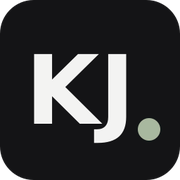
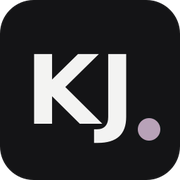
Use muted mauve accents and remove remaining project section bars

Changed region(s): [[0.75, 0.6389, 0.8889, 0.7778]]

diff --git a/site/assets/style.css b/site/assets/style.css
@@ -1,6 +1,6 @@
 @import url('https://fonts.googleapis.com/css2?family=Barlow+Condensed:wght@500;600;700;800&family=DM+Sans:wght@400;450;500;550;600;650;700&display=swap');
-:root{--bg:#141416;--panel:#1d1d20;--text:#f3f3f2;--muted:#b3b3b8;--line:#3b3b40;--accent:#a8b89f;--paper:#ededee;--ink:#18181b;--display:'Barlow Condensed','Arial Narrow',Impact,sans-serif;--body:'DM Sans',Arial,sans-serif;color-scheme:dark;font-family:var(--body);font-synthesis:none;scroll-behavior:smooth;scroll-padding-top:110px}
-*{box-sizing:border-box}body{margin:0;background:var(--bg);color:var(--text);font-size:16px;line-height:1.65}a{color:inherit;text-decoration:none}button{font:inherit;color:inherit;cursor:pointer}button,a{-webkit-tap-highlight-color:transparent}button:focus-visible,a:focus-visible{outline:3px solid var(--accent);outline-offset:6px}::selection{background:var(--accent);color:var(--ink)}img{display:block;max-width:100%;object-fit:cover}h1,h2,h3,p,figure{margin:0}h1,h2,h3{font-weight:600;line-height:1.08}h1,h2{font-family:var(--display)}h2{font-size:clamp(2.7rem,4.4vw,4.5rem);letter-spacing:-.015em}p{color:var(--muted)}ul{padding:0;list-style:none}small{font-size:.8rem}.wrap{width:min(1280px,calc(100% - 104px));margin-inline:auto}.section{padding-block:105px}.eyebrow{font-size:.8125rem;letter-spacing:.13em;font-weight:600;color:var(--muted);text-transform:uppercase}.eyebrow .accent-line{display:inline-block;width:24px;height:2px;background:var(--accent);vertical-align:middle;margin-right:8px}.skip{position:fixed;top:-100px;left:16px;z-index:100;background:var(--accent);color:var(--ink);padding:10px 20px}.skip:focus{top:10px}.header{position:sticky;top:0;z-index:30;background:rgba(20,20,22,.96);border-bottom:1px solid var(--line);backdrop-filter:blur(16px)}.header-inner{display:flex;align-items:center;justify-content:space-between;min-height:91px;gap:24px}.identity{display:flex;align-items:center;gap:16px;font-size:.8125rem;font-weight:700;letter-spacing:.07em;line-height:1.5}.identity small{display:block;font-size:.75rem;letter-spacing:.13em;font-weight:450;color:var(--muted)}.monogram{font-family:var(--display);font-size:2.75rem;font-weight:700;letter-spacing:-.07em}.monogram span,.footer-name span{color:var(--accent)}nav{display:flex;align-items:center;gap:35px}nav a{font-size:.9rem;color:var(--muted)}nav a:hover,nav a[aria-current]{color:var(--text)}nav .resume-link{border:1px solid var(--line);padding:9px 17px;color:var(--text)}.menu-toggle{display:none}.hero{display:grid;grid-template-columns:1.2fr .8fr;gap:50px 64px;padding-top:65px}.hero-copy{padding-top:14px}.hero h1{font-size:clamp(4.3rem,7.9vw,7.75rem);line-height:.98;letter-spacing:-.025em;margin:28px 0 27px;font-weight:600}.hero h1 span{color:var(--accent)}.hero-description{max-width:495px;font-size:1.03rem;line-height:1.8}.hero-buttons{display:flex;align-items:center;gap:28px;margin-top:30px;flex-wrap:wrap}.button{display:inline-flex;justify-content:center;align-items:center;gap:36px;padding:15px 23px;font-size:.9375rem;font-weight:600;border:1px solid transparent;min-height:54px;transition:background .2s,transform .2s}.button:hover{transform:translateY(-2px)}.primary{background:var(--accent);color:var(--ink)}.primary:hover{background:#bdccb5}.outline{border-color:var(--line)}.outline:hover{background:var(--panel)}.text-link{font-size:.9375rem;border-bottom:1px solid var(--line);padding-bottom:7px}.text-link span{margin-left:15px}.hero-portrait{padding-top:8px;min-width:0}.portrait-frame{position:relative;overflow:hidden;background:#36363b;aspect-ratio: .87;max-height:525px;border-top:3px solid var(--accent)}.portrait-frame img{width:100%;height:100%;object-position:50% 52%;filter:saturate(.68)}.portrait-frame:after{content:'';position:absolute;inset:50% 0 0;background:linear-gradient(transparent,rgba(0,0,0,.75));pointer-events:none}.portrait-caption{position:absolute;bottom:24px;left:25px;right:20px;z-index:2;display:flex;flex-direction:column;gap:4px}.portrait-caption span:first-child{font-size:1.25rem;font-weight:650}.portrait-caption span:last-child{font-size:.75rem;letter-spacing:.13em}.portrait-note{display:flex;gap:15px;align-items:center;margin-top:17px;font-size:.75rem;line-height:1.7;letter-spacing:.07em}.cross{font-size:2rem;color:var(--accent);line-height:1}.muted{color:var(--muted)}.hero-bottom{grid-column:1/-1;display:flex;justify-content:space-between;gap:20px;border-top:1px solid var(--line);border-bottom:1px solid var(--line);padding:23px 0;font-size:.8125rem;color:var(--muted)}.hero-bottom>span:first-child{color:var(--text)}.hero-bottom i{font-style:normal;color:var(--accent);padding-inline:12px}.section-heading{display:flex;align-items:end;justify-content:space-between;gap:40px;margin-bottom:44px}.section-heading h2{margin-top:15px}.count{font-family:var(--body);font-size:.9375rem;letter-spacing:0;color:var(--muted);vertical-align:top;display:inline-block;margin:9px 0 0 16px}.section-heading>p{max-width:320px;font-size:.9375rem}.project-list{display:grid;gap:48px}.project-card{display:grid;grid-template-columns:1.18fr 1fr;border:1px solid var(--line);background:var(--panel)}.project-visual{position:relative;min-width:0;overflow:hidden;background:#47734e;min-height:460px;display:block}.project-visual img{width:100%;height:100%;position:absolute;inset:0;transition:transform .65s}.operation-station .project-visual img{object-fit:contain;padding:28px;image-rendering:auto}.project-visual:hover img{transform:scale(1.035)}.clockwork-trials .project-visual img{object-position:58% center}.release-badge{position:absolute;left:22px;top:22px;display:flex;align-items:center;gap:9px;background:var(--bg);padding:7px 12px;font-size:.75rem;letter-spacing:.08em;border:1px solid #ffffff22}.release-badge>span{width:5px;height:5px;background:#b5d895;border-radius:50%}.image-open{position:absolute;right:22px;bottom:22px;width:43px;height:43px;background:var(--text);color:var(--ink);display:grid;place-items:center;font-size:1.5rem}.project-copy{padding:32px 37px;display:flex;flex-direction:column}.project-index{display:flex;justify-content:space-between;gap:10px;font-size:.75rem;color:var(--muted);letter-spacing:.06em}.project-copy h3{font-family:var(--display);font-size:3.8rem;font-weight:600;margin-top:22px;line-height:.98}.project-summary{margin-top:18px;font-size:.9375rem;max-width:345px}.project-role{border-top:1px solid var(--line);margin-top:25px;padding-top:17px}.project-role>span{font-size:.75rem;letter-spacing:.1em;color:var(--muted)}.project-role p{font-size:.875rem;color:var(--text);margin-top:3px}.tags{display:flex;flex-wrap:wrap;gap:7px;margin:20px 0}.tags li{border:1px solid var(--line);padding:4px 9px;font-size:.75rem;color:var(--muted);line-height:1.5}.case-link{display:flex;justify-content:space-between;align-items:center;margin-top:auto;padding-top:15px;font-size:.875rem}.case-link span{font-size:1.5rem;color:var(--accent)}.about{background:var(--paper);color:var(--ink);color-scheme:light}.about p,.about .eyebrow{color:#57575f}.about-grid{display:grid;grid-template-columns:1fr 1fr;gap:90px}.about h2{margin-top:20px;font-size:clamp(2.75rem,4.4vw,4.4rem)}.about-copy p+p{margin-top:18px}.about-copy .text-link{display:inline-block;margin-top:27px;border-color:#bdbdc3}.about-signature{font-family:var(--display);font-weight:600;font-size:1.8rem;margin-top:42px}.about-signature span{display:block;font-family:var(--body);font-size:.75rem;font-weight:500;letter-spacing:.09em;margin-top:3px;color:#57575f}.skills-grid{display:grid;grid-template-columns:repeat(3,1fr);gap:40px;margin-top:80px;border-top:1px solid #c4c4c9;padding-top:35px}.skill-number{font-size:.8125rem;color:#6b6b74}.skill h3{font-size:1.125rem;margin:17px 0 14px}.skill p{font-size:.9375rem}.skill .tags li{color:#484850;border-color:#c4c4c9}.education{display:grid;grid-template-columns:.55fr 1fr 1fr;gap:35px;margin-top:55px;padding-top:30px;border-top:1px solid #c4c4c9}.education-row h3{font-size:1rem;line-height:1.5}.education-row span{display:block;font-size:.8125rem;font-weight:400;color:#57575f}.education-row p{margin-top:13px;font-size:.875rem}.contact{border-bottom:1px solid var(--line)}.contact-grid{display:grid;grid-template-columns:1fr 1fr;gap:75px;align-items:end}.contact h2{margin:20px 0;font-size:clamp(3rem,4.7vw,4.8rem)}.contact-grid>div>p:not(.eyebrow){max-width:430px;font-size:.9375rem}.contact-actions{padding-bottom:8px;min-width:0}.email-link{display:flex;justify-content:space-between;align-items:center;gap:14px;padding-bottom:17px;border-bottom:1px solid var(--line);font-size:clamp(.9375rem,1.45vw,1.25rem);overflow-wrap:anywhere}.email-link span{color:var(--accent);font-size:1.75rem}.contact-secondary{display:flex;flex-wrap:wrap;gap:15px 25px;margin-top:23px;font-size:.8125rem}.contact-secondary button{border:0;padding:0;background:none;font-size:inherit}.contact-secondary a:hover,.contact-secondary button:hover{color:var(--accent)}.copy-status{font-size:.8125rem;min-height:24px;margin:12px 0}.availability{font-size:.8125rem;color:var(--muted)}.footer-inner{padding-block:30px;display:flex;gap:20px;justify-content:space-between;align-items:center;font-size:.8125rem;color:var(--muted)}.footer-name{font-family:var(--display);font-size:1.75rem;color:var(--text);font-weight:600}.footer-inner small{font-size:.75rem}.project-intro{padding-top:35px}.back-link{font-size:.875rem;color:var(--muted)}.project-intro-meta{display:flex;justify-content:space-between;gap:20px;align-items:center;margin-top:50px}.status-label{color:#c1d7ac;border:1px solid var(--line);padding:4px 14px;font-size:.8125rem}.project-intro h1{font-size:clamp(4rem,9.2vw,8.5rem);margin-top:20px;letter-spacing:-.02em}.project-lede{font-size:1.25rem;max-width:780px;margin-top:22px}.project-ctas{display:flex;align-items:center;flex-wrap:wrap;gap:20px;margin:30px 0}.project-ctas .tags{margin:0}.snapshot{display:grid;grid-template-columns:1.5fr 1fr 1fr .65fr;border-block:1px solid var(--line);gap:25px;padding-block:26px;margin-top:43px}.snapshot span{font-size:.75rem;letter-spacing:.1em;color:var(--muted)}.snapshot p{font-size:.9375rem;color:var(--text);margin-top:7px}.project-banner{position:relative;margin:35px 0 0;aspect-ratio:2.2;overflow:hidden;background:#47734e}.project-banner img{width:100%;height:100%;object-fit:cover}.project-banner.operation-station img{object-fit:contain}.project-banner.clockwork-trials img{object-position:center 75%}.project-banner figcaption{position:absolute;left:0;bottom:0;background:#141416dd;font-size:.75rem;padding:8px 15px}.detail-layout{display:grid;grid-template-columns:210px 1fr;gap:70px;padding-top:75px}.detail-nav{position:sticky;top:135px;align-self:start;display:flex;flex-direction:column;align-items:start;gap:20px}.detail-nav .eyebrow{font-size:.75rem;margin-bottom:5px}.detail-nav a{font-size:.8125rem}.detail-nav a[aria-current]{color:var(--accent)}.detail-content{max-width:850px;min-width:0}.detail-content section{padding-bottom:64px;margin-bottom:64px;border-bottom:1px solid var(--line)}.detail-content h2{font-size:clamp(2.25rem,3.4vw,3.75rem);margin:17px 0 24px}.detail-content h3{font-size:1.2rem;line-height:1.35;margin:32px 0 17px}.detail-content p{line-height:1.85}.bullet-list{display:grid;gap:12px;color:var(--muted);padding-left:19px;list-style:square}.bullet-list li::marker{color:var(--accent)}.focus-note{border-left:3px solid var(--accent);padding:25px 28px;background:var(--panel);margin-top:34px}.focus-note>span{font-size:.75rem;letter-spacing:.12em;color:var(--accent)}.focus-note p{font-size:.9375rem;margin-top:10px;color:var(--text)}.contribution-list article{display:grid;grid-template-columns:40px 1fr;gap:25px;border-top:1px solid var(--line);padding:25px 0}.contribution-list article>span{font-size:.875rem;color:var(--accent)}.contribution-list h3{margin:0 0 11px}.contribution-list p{font-size:.9375rem}.feature-grid{display:grid;grid-template-columns:1fr 1fr;gap:0 35px;margin-top:25px}.feature-grid li{padding:14px 0;border-bottom:1px solid var(--line);font-size:.9375rem;color:var(--muted)}.fact-list{margin-top:30px}.fact-list>div{display:grid;grid-template-columns:145px 1fr;gap:25px;border-top:1px solid var(--line);padding:16px 0;font-size:.9375rem}.fact-list dt{color:var(--muted)}.fact-list dd{margin:0}.video-container{position:relative;width:100%;aspect-ratio:16/9;background:#000;overflow:hidden}.video-launch{position:relative;width:100%;height:100%;padding:0;border:1px solid var(--line);background:transparent}.video-launch img{width:100%;height:100%;object-fit:contain;filter:brightness(.65)}.video-play{position:absolute;inset:0;display:flex;align-items:center;justify-content:center;flex-direction:column;font-size:2.5rem;color:white}.video-play small{font-size:.75rem;letter-spacing:.14em}.video-container iframe{display:block;width:100%;height:100%;border:0}.video-fallback{font-size:.875rem;margin-top:15px}.next-project{padding:0 0 70px;border-bottom:1px solid var(--line)}.next-project>a{display:flex;justify-content:space-between;align-items:center;gap:25px;font-family:var(--display);font-size:clamp(2.75rem,5vw,5rem);margin-top:15px;line-height:1.15}.next-project>a span{color:var(--accent)}.missing{min-height:65vh;padding-block:80px}.missing h1{font-size:clamp(3.5rem,8vw,7rem);margin-block:25px}.missing .button{margin-top:25px}
+:root{--bg:#141416;--panel:#1d1d20;--text:#f3f3f2;--muted:#b3b3b8;--line:#3b3b40;--accent:#b8a2b8;--paper:#ededee;--ink:#18181b;--display:'Barlow Condensed','Arial Narrow',Impact,sans-serif;--body:'DM Sans',Arial,sans-serif;color-scheme:dark;font-family:var(--body);font-synthesis:none;scroll-behavior:smooth;scroll-padding-top:110px}
+*{box-sizing:border-box}body{margin:0;background:var(--bg);color:var(--text);font-size:16px;line-height:1.65}a{color:inherit;text-decoration:none}button{font:inherit;color:inherit;cursor:pointer}button,a{-webkit-tap-highlight-color:transparent}button:focus-visible,a:focus-visible{outline:3px solid var(--accent);outline-offset:6px}::selection{background:var(--accent);color:var(--ink)}img{display:block;max-width:100%;object-fit:cover}h1,h2,h3,p,figure{margin:0}h1,h2,h3{font-weight:600;line-height:1.08}h1,h2{font-family:var(--display)}h2{font-size:clamp(2.7rem,4.4vw,4.5rem);letter-spacing:-.015em}p{color:var(--muted)}ul{padding:0;list-style:none}small{font-size:.8rem}.wrap{width:min(1280px,calc(100% - 104px));margin-inline:auto}.section{padding-block:105px}.eyebrow{font-size:.8125rem;letter-spacing:.13em;font-weight:600;color:var(--muted);text-transform:uppercase}.eyebrow .accent-line{display:inline-block;width:24px;height:2px;background:var(--accent);vertical-align:middle;margin-right:8px}.skip{position:fixed;top:-100px;left:16px;z-index:100;background:var(--accent);color:var(--ink);padding:10px 20px}.skip:focus{top:10px}.header{position:sticky;top:0;z-index:30;background:rgba(20,20,22,.96);border-bottom:1px solid var(--line);backdrop-filter:blur(16px)}.header-inner{display:flex;align-items:center;justify-content:space-between;min-height:91px;gap:24px}.identity{display:flex;align-items:center;gap:16px;font-size:.8125rem;font-weight:700;letter-spacing:.07em;line-height:1.5}.identity small{display:block;font-size:.75rem;letter-spacing:.13em;font-weight:450;color:var(--muted)}.monogram{font-family:var(--display);font-size:2.75rem;font-weight:700;letter-spacing:-.07em}.monogram span,.footer-name span{color:var(--accent)}nav{display:flex;align-items:center;gap:35px}nav a{font-size:.9rem;color:var(--muted)}nav a:hover,nav a[aria-current]{color:var(--text)}nav .resume-link{border:1px solid var(--line);padding:9px 17px;color:var(--text)}.menu-toggle{display:none}.hero{display:grid;grid-template-columns:1.2fr .8fr;gap:50px 64px;padding-top:65px}.hero-copy{padding-top:14px}.hero h1{font-size:clamp(4.3rem,7.9vw,7.75rem);line-height:.98;letter-spacing:-.025em;margin:28px 0 27px;font-weight:600}.hero h1 span{color:var(--accent)}.hero-description{max-width:495px;font-size:1.03rem;line-height:1.8}.hero-buttons{display:flex;align-items:center;gap:28px;margin-top:30px;flex-wrap:wrap}.button{display:inline-flex;justify-content:center;align-items:center;gap:36px;padding:15px 23px;font-size:.9375rem;font-weight:600;border:1px solid transparent;min-height:54px;transition:background .2s,transform .2s}.button:hover{transform:translateY(-2px)}.primary{background:var(--accent);color:var(--ink)}.primary:hover{background:#cbb8cb}.outline{border-color:var(--line)}.outline:hover{background:var(--panel)}.text-link{font-size:.9375rem;border-bottom:1px solid var(--line);padding-bottom:7px}.text-link span{margin-left:15px}.hero-portrait{padding-top:8px;min-width:0}.portrait-frame{position:relative;overflow:hidden;background:#36363b;aspect-ratio: .87;max-height:525px;border-top:3px solid var(--accent)}.portrait-frame img{width:100%;height:100%;object-position:50% 52%;filter:saturate(.68)}.portrait-frame:after{content:'';position:absolute;inset:50% 0 0;background:linear-gradient(transparent,rgba(0,0,0,.75));pointer-events:none}.portrait-caption{position:absolute;bottom:24px;left:25px;right:20px;z-index:2;display:flex;flex-direction:column;gap:4px}.portrait-caption span:first-child{font-size:1.25rem;font-weight:650}.portrait-caption span:last-child{font-size:.75rem;letter-spacing:.13em}.portrait-note{display:flex;gap:15px;align-items:center;margin-top:17px;font-size:.75rem;line-height:1.7;letter-spacing:.07em}.cross{font-size:2rem;color:var(--accent);line-height:1}.muted{color:var(--muted)}.hero-bottom{grid-column:1/-1;display:flex;justify-content:space-between;gap:20px;border-top:1px solid var(--line);border-bottom:1px solid var(--line);padding:23px 0;font-size:.8125rem;color:var(--muted)}.hero-bottom>span:first-child{color:var(--text)}.hero-bottom i{font-style:normal;color:var(--accent);padding-inline:12px}.section-heading{display:flex;align-items:end;justify-content:space-between;gap:40px;margin-bottom:44px}.section-heading h2{margin-top:15px}.count{font-family:var(--body);font-size:.9375rem;letter-spacing:0;color:var(--muted);vertical-align:top;display:inline-block;margin:9px 0 0 16px}.section-heading>p{max-width:320px;font-size:.9375rem}.project-list{display:grid;gap:48px}.project-card{display:grid;grid-template-columns:1.18fr 1fr;border:1px solid var(--line);background:var(--panel)}.project-visual{position:relative;min-width:0;overflow:hidden;background:#47734e;min-height:460px;display:block}.project-visual img{width:100%;height:100%;position:absolute;inset:0;transition:transform .65s}.operation-station .project-visual img{object-fit:contain;padding:28px;image-rendering:auto}.project-visual:hover img{transform:scale(1.035)}.clockwork-trials .project-visual img{object-position:58% center}.release-badge{position:absolute;left:22px;top:22px;display:flex;align-items:center;gap:9px;background:var(--bg);padding:7px 12px;font-size:.75rem;letter-spacing:.08em;border:1px solid #ffffff22}.release-badge>span{width:5px;height:5px;background:#b5d895;border-radius:50%}.image-open{position:absolute;right:22px;bottom:22px;width:43px;height:43px;background:var(--text);color:var(--ink);display:grid;place-items:center;font-size:1.5rem}.project-copy{padding:32px 37px;display:flex;flex-direction:column}.project-index{display:flex;justify-content:space-between;gap:10px;font-size:.75rem;color:var(--muted);letter-spacing:.06em}.project-copy h3{font-family:var(--display);font-size:3.8rem;font-weight:600;margin-top:22px;line-height:.98}.project-summary{margin-top:18px;font-size:.9375rem;max-width:345px}.project-role{border-top:1px solid var(--line);margin-top:25px;padding-top:17px}.project-role>span{font-size:.75rem;letter-spacing:.1em;color:var(--muted)}.project-role p{font-size:.875rem;color:var(--text);margin-top:3px}.tags{display:flex;flex-wrap:wrap;gap:7px;margin:20px 0}.tags li{border:1px solid var(--line);padding:4px 9px;font-size:.75rem;color:var(--muted);line-height:1.5}.case-link{display:flex;justify-content:space-between;align-items:center;margin-top:auto;padding-top:15px;font-size:.875rem}.case-link span{font-size:1.5rem;color:var(--accent)}.about{background:var(--paper);color:var(--ink);color-scheme:light}.about p,.about .eyebrow{color:#57575f}.about-grid{display:grid;grid-template-columns:1fr 1fr;gap:90px}.about h2{margin-top:20px;font-size:clamp(2.75rem,4.4vw,4.4rem)}.about-copy p+p{margin-top:18px}.about-copy .text-link{display:inline-block;margin-top:27px;border-color:#bdbdc3}.about-signature{font-family:var(--display);font-weight:600;font-size:1.8rem;margin-top:42px}.about-signature span{display:block;font-family:var(--body);font-size:.75rem;font-weight:500;letter-spacing:.09em;margin-top:3px;color:#57575f}.skills-grid{display:grid;grid-template-columns:repeat(3,1fr);gap:40px;margin-top:80px;border-top:1px solid #c4c4c9;padding-top:35px}.skill-number{font-size:.8125rem;color:#6b6b74}.skill h3{font-size:1.125rem;margin:17px 0 14px}.skill p{font-size:.9375rem}.skill .tags li{color:#484850;border-color:#c4c4c9}.education{display:grid;grid-template-columns:.55fr 1fr 1fr;gap:35px;margin-top:55px;padding-top:30px;border-top:1px solid #c4c4c9}.education-row h3{font-size:1rem;line-height:1.5}.education-row span{display:block;font-size:.8125rem;font-weight:400;color:#57575f}.education-row p{margin-top:13px;font-size:.875rem}.contact{border-bottom:1px solid var(--line)}.contact-grid{display:grid;grid-template-columns:1fr 1fr;gap:75px;align-items:end}.contact h2{margin:20px 0;font-size:clamp(3rem,4.7vw,4.8rem)}.contact-grid>div>p:not(.eyebrow){max-width:430px;font-size:.9375rem}.contact-actions{padding-bottom:8px;min-width:0}.email-link{display:flex;justify-content:space-between;align-items:center;gap:14px;padding-bottom:17px;border-bottom:1px solid var(--line);font-size:clamp(.9375rem,1.45vw,1.25rem);overflow-wrap:anywhere}.email-link span{color:var(--accent);font-size:1.75rem}.contact-secondary{display:flex;flex-wrap:wrap;gap:15px 25px;margin-top:23px;font-size:.8125rem}.contact-secondary button{border:0;padding:0;background:none;font-size:inherit}.contact-secondary a:hover,.contact-secondary button:hover{color:var(--accent)}.copy-status{font-size:.8125rem;min-height:24px;margin:12px 0}.availability{font-size:.8125rem;color:var(--muted)}.footer-inner{padding-block:30px;display:flex;gap:20px;justify-content:space-between;align-items:center;font-size:.8125rem;color:var(--muted)}.footer-name{font-family:var(--display);font-size:1.75rem;color:var(--text);font-weight:600}.footer-inner small{font-size:.75rem}.project-intro{padding-top:35px}.back-link{font-size:.875rem;color:var(--muted)}.project-intro-meta{display:flex;justify-content:space-between;gap:20px;align-items:center;margin-top:50px}.status-label{color:#c1d7ac;border:1px solid var(--line);padding:4px 14px;font-size:.8125rem}.project-intro h1{font-size:clamp(4rem,9.2vw,8.5rem);margin-top:20px;letter-spacing:-.02em}.project-lede{font-size:1.25rem;max-width:780px;margin-top:22px}.project-ctas{display:flex;align-items:center;flex-wrap:wrap;gap:20px;margin:30px 0}.project-ctas .tags{margin:0}.snapshot{display:grid;grid-template-columns:1.5fr 1fr 1fr .65fr;border-block:1px solid var(--line);gap:25px;padding-block:26px;margin-top:43px}.snapshot span{font-size:.75rem;letter-spacing:.1em;color:var(--muted)}.snapshot p{font-size:.9375rem;color:var(--text);margin-top:7px}.project-banner{position:relative;margin:35px 0 0;aspect-ratio:2.2;overflow:hidden;background:#47734e}.project-banner img{width:100%;height:100%;object-fit:cover}.project-banner.operation-station img{object-fit:contain}.project-banner.clockwork-trials img{object-position:center 75%}.project-banner figcaption{position:absolute;left:0;bottom:0;background:#141416dd;font-size:.75rem;padding:8px 15px}.detail-layout{display:grid;grid-template-columns:210px 1fr;gap:70px;padding-top:75px}.detail-nav{position:sticky;top:135px;align-self:start;display:flex;flex-direction:column;align-items:start;gap:20px}.detail-nav .eyebrow{font-size:.75rem;margin-bottom:5px}.detail-nav a{font-size:.8125rem}.detail-nav a[aria-current]{color:var(--accent)}.detail-content{max-width:850px;min-width:0}.detail-content section{padding-bottom:64px;margin-bottom:64px;border-bottom:1px solid var(--line)}.detail-content h2{font-size:clamp(2.25rem,3.4vw,3.75rem);margin:17px 0 24px}.detail-content h3{font-size:1.2rem;line-height:1.35;margin:32px 0 17px}.detail-content p{line-height:1.85}.bullet-list{display:grid;gap:12px;color:var(--muted);padding-left:19px;list-style:square}.bullet-list li::marker{color:var(--accent)}.focus-note{border-left:3px solid var(--accent);padding:25px 28px;background:var(--panel);margin-top:34px}.focus-note>span{font-size:.75rem;letter-spacing:.12em;color:var(--accent)}.focus-note p{font-size:.9375rem;margin-top:10px;color:var(--text)}.contribution-list article{display:grid;grid-template-columns:40px 1fr;gap:25px;border-top:1px solid var(--line);padding:25px 0}.contribution-list article>span{font-size:.875rem;color:var(--accent)}.contribution-list h3{margin:0 0 11px}.contribution-list p{font-size:.9375rem}.feature-grid{display:grid;grid-template-columns:1fr 1fr;gap:0 35px;margin-top:25px}.feature-grid li{padding:14px 0;border-bottom:1px solid var(--line);font-size:.9375rem;color:var(--muted)}.fact-list{margin-top:30px}.fact-list>div{display:grid;grid-template-columns:145px 1fr;gap:25px;border-top:1px solid var(--line);padding:16px 0;font-size:.9375rem}.fact-list dt{color:var(--muted)}.fact-list dd{margin:0}.video-container{position:relative;width:100%;aspect-ratio:16/9;background:#000;overflow:hidden}.video-launch{position:relative;width:100%;height:100%;padding:0;border:1px solid var(--line);background:transparent}.video-launch img{width:100%;height:100%;object-fit:contain;filter:brightness(.65)}.video-play{position:absolute;inset:0;display:flex;align-items:center;justify-content:center;flex-direction:column;font-size:2.5rem;color:white}.video-play small{font-size:.75rem;letter-spacing:.14em}.video-container iframe{display:block;width:100%;height:100%;border:0}.video-fallback{font-size:.875rem;margin-top:15px}.next-project{padding:0 0 70px;border-bottom:1px solid var(--line)}.next-project>a{display:flex;justify-content:space-between;align-items:center;gap:25px;font-family:var(--display);font-size:clamp(2.75rem,5vw,5rem);margin-top:15px;line-height:1.15}.next-project>a span{color:var(--accent)}.missing{min-height:65vh;padding-block:80px}.missing h1{font-size:clamp(3.5rem,8vw,7rem);margin-block:25px}.missing .button{margin-top:25px}
 @media(min-width:1600px){.hero{padding-top:85px}.hero h1{font-size:8rem}.portrait-frame{max-height:560px}}
 @media(max-width:1100px){.wrap{width:calc(100% - 64px)}.hero{gap:40px}.hero h1{font-size:7.8vw}.project-copy{padding:26px}.project-visual{min-height:445px}.project-copy h3{font-size:3.3rem}.about-grid{gap:45px}.contact-grid{gap:45px}.detail-layout{gap:40px;grid-template-columns:165px 1fr}.skills-grid{gap:25px}}
 @media(max-width:760px){:root{scroll-padding-top:95px}.wrap{width:calc(100% - 40px)}.header-inner{min-height:76px}.identity{gap:10px}.identity small{font-size:.75rem}.monogram{font-size:2.2rem}.menu-toggle{display:flex;align-items:center;gap:16px;border:1px solid var(--line);background:transparent;padding:7px 12px;font-size:.875rem}.menu-toggle span{color:var(--accent);font-size:1.2rem}.header nav{display:none;position:absolute;top:76px;left:0;right:0;background:var(--bg);padding:24px;align-items:stretch;gap:12px;border-bottom:1px solid var(--line)}.header nav.is-open{display:flex;flex-direction:column}.header nav a{padding:12px}.hero{grid-template-columns:1fr;padding-top:33px;gap:32px}.hero-copy{padding-top:0}.hero .eyebrow{font-size:.75rem;letter-spacing:.1em}.hero h1{font-size:clamp(4.2rem,13vw,6.5rem);margin-top:22px}.hero-description{font-size:1rem}.hero-buttons{gap:25px}.hero-portrait{display:grid;grid-template-columns:1fr .38fr;gap:20px;align-items:end}.portrait-frame{aspect-ratio:1.1;max-height:330px}.portrait-frame img{object-position:50% 48%}.portrait-caption{left:18px;bottom:15px}.portrait-caption span:last-child{font-size:.75rem}.portrait-note{margin:0 0 8px;flex-direction:column;align-items:start;line-height:1.9;font-size:.75rem}.hero-bottom{flex-direction:column;font-size:.75rem;gap:9px;padding-block:17px}.hero-bottom i{padding-inline:7px}.section{padding-block:65px}.section-heading{align-items:start;gap:20px;flex-direction:column;margin-bottom:30px}.section-heading>p{max-width:350px}.project-card{grid-template-columns:1fr}.project-visual{aspect-ratio:1.35;min-height:0}.operation-station .project-visual img{padding:12px}.project-copy{padding:26px}.project-copy h3{font-size:3.75rem}.project-copy h3 br{display:none}.project-copy h3 br:after{content:' '}.project-copy h3{max-width:85%}.project-summary{max-width:100%}.project-index{font-size:.75rem}.project-list{gap:30px}.about-grid{grid-template-columns:1fr;gap:30px}.about-signature{margin-top:22px}.about h2{font-size:3.2rem}.skills-grid{grid-template-columns:1fr;gap:30px;margin-top:45px}.skill+.skill{border-top:1px solid #c4c4c9;padding-top:27px}.skill .tags{margin-bottom:0}.education{grid-template-columns:1fr;gap:23px;margin-top:35px}.education-row{display:flex;justify-content:space-between;gap:20px}.education-row p{margin:0;text-align:right}.contact-grid{grid-template-columns:1fr;gap:30px}.contact h2{font-size:3.5rem}.email-link{font-size:1rem}.footer-inner{flex-wrap:wrap;gap:18px}.footer-inner>*{flex-basis:44%}.footer-inner>:nth-child(even){text-align:right}.footer-inner>span{font-size:.75rem}.project-intro-meta{margin-top:32px}.project-intro-meta .eyebrow{font-size:.75rem}.project-intro h1{font-size:clamp(3.5rem,12vw,5.5rem)}.project-lede{font-size:1.1rem}.project-ctas{gap:14px}.project-ctas .button{gap:20px;padding-inline:17px}.snapshot{grid-template-columns:1fr 1fr;gap:20px;margin-top:30px}.snapshot p{font-size:.875rem}.project-banner{aspect-ratio:1.35;margin-top:25px}.detail-layout{grid-template-columns:1fr;gap:30px;padding-top:35px}.detail-nav{position:static;flex-direction:row;gap:10px 24px;flex-wrap:wrap;border-bottom:1px solid var(--line);padding-bottom:25px}.detail-nav .eyebrow{width:100%}.detail-content section{margin-bottom:40px;padding-bottom:40px}.detail-content h2{font-size:2.8rem}.feature-grid{grid-template-columns:1fr}.fact-list>div{grid-template-columns:110px 1fr;gap:15px}.focus-note{padding:20px}.contribution-list article{gap:15px;grid-template-columns:25px 1fr}.next-project{padding-bottom:40px}}
@@ -50,13 +50,13 @@
 .carousel-toolbar{display:flex;align-items:center;justify-content:space-between;gap:20px;margin-bottom:18px}
 .carousel-position{font-size:.875rem}
 .carousel-buttons{display:flex;gap:10px}
-.carousel-button{width:52px;height:52px;display:grid;place-items:center;border:1px solid #74806d;border-radius:50%;background:#23271f;color:var(--accent);box-shadow:inset 0 1px 0 #ffffff0a;transition:background .18s,border-color .18s,color .18s,transform .18s;flex-shrink:0}
+.carousel-button{width:52px;height:52px;display:grid;place-items:center;border:1px solid #7e6b7e;border-radius:50%;background:#282228;color:var(--accent);box-shadow:inset 0 1px 0 #ffffff0a;transition:background .18s,border-color .18s,color .18s,transform .18s;flex-shrink:0}
 .carousel-button svg{width:23px;height:23px;stroke:currentColor;stroke-width:1.8;stroke-linecap:round;stroke-linejoin:round}
 .carousel-button:active:not(:disabled){transform:scale(.94)}
 .carousel-button:hover:not(:disabled){background:var(--accent);border-color:var(--accent);color:var(--bg)}
 .carousel-button:disabled{opacity:1;cursor:default;background:#1d1d20;border-color:#45454c;color:#9999a2;box-shadow:none}
-.project-list{position:relative;display:grid;grid-template-columns:none;grid-auto-flow:column;grid-auto-columns:calc((100% - 24px)/2);gap:24px;align-items:stretch;overflow-x:auto;overscroll-behavior-x:contain;scroll-snap-type:x mandatory;scrollbar-width:none;padding-bottom:0}
-.project-list::-webkit-scrollbar{display:none}
+.project-list{position:relative;display:grid;grid-template-columns:none;grid-auto-flow:column;grid-auto-columns:calc((100% - 24px)/2);gap:24px;align-items:stretch;overflow-x:auto;overflow-y:hidden;overscroll-behavior-x:contain;scroll-snap-type:x mandatory;scrollbar-width:none;padding-bottom:0}
+.project-list::-webkit-scrollbar{display:none;width:0;height:0}
 .project-card{display:flex;flex-direction:column;align-items:stretch;min-width:0;height:100%;scroll-snap-align:start;scroll-margin:0}
 .project-copy{flex:1;padding:27px 29px}
 .project-copy h3{font-size:3.1rem}
@@ -90,9 +90,9 @@
 .work .carousel-button:hover:not(:disabled){background:var(--accent);border-color:var(--accent);color:var(--ink)}
 .work .carousel-button:disabled{background:transparent;border-color:var(--line);color:var(--muted);opacity:.45}
 .work .project-list{gap:24px;grid-auto-columns:calc((100% - 24px)/2);padding-bottom:0;scrollbar-width:none}
-.work .project-list::-webkit-scrollbar{display:none}
+.work .project-list::-webkit-scrollbar{display:none;width:0;height:0}
 .work .project-card{border-radius:0;background:var(--panel);border-color:var(--line);overflow:hidden;transition:border-color .2s}
-.work .project-card:hover,.work .project-card:focus-within{border-color:var(--accent)}
+.work .project-card:hover,.work .project-card:focus-within{border-color:var(--line)}
 .work .project-card:focus-within{outline-offset:-3px}
 .work .project-visual{aspect-ratio:16/9;border-bottom:1px solid var(--line);background:var(--bg)}
 .work .project-visual img{object-fit:cover;object-position:center;transition:transform .6s}

diff --git a/src/templates/home.js b/src/templates/home.js
@@ -30,7 +30,7 @@ export function home() {
  <main id="main">
   <section class="hero wrap"><div class="hero-copy"><p class="eyebrow"><span class="accent-line"></span> KEITH JANISH / GAMEPLAY PROGRAMMER</p><h1>I build the<br>systems behind<br><span>the play.</span></h1><p class="hero-description">${e(profile.summary)}</p><div class="hero-buttons"><a href="#projects" class="button primary">Explore my work <span aria-hidden="true">↓</span></a><a href="${profile.resume}" target="_blank" rel="noopener" class="text-link">View résumé ${arrow}</a></div></div><div class="hero-portrait"><div class="portrait-frame"><img src="${e(mediaUrl(profile.portrait))}" alt="Portrait of Keith Janish" width="1362" height="1824" fetchpriority="high"><div class="portrait-caption"><span>KEITH JANISH</span><span>DEVELOPER. DESIGNER. PLAYER.</span></div></div><div class="portrait-note"><span class="cross" aria-hidden="true">+</span><span>BASED IN ${e(profile.location.toUpperCase())}<br><span class="muted">BUILDING FOR THE NEXT PLAYER.</span></span></div></div><div class="hero-bottom"><span>${e(profile.availability)}</span><span>UNITY <i>/</i> UNREAL ENGINE <i>/</i> C# <i>/</i> C++</span></div></section>
   <section class="section work wrap" id="projects">
-   <div class="section-heading"><div><p class="eyebrow"><span class="accent-line"></span> THE PORTFOLIO</p><h2>${e(site.selectedWork)}<span class="count">${String(projects.length).padStart(2,'0')}</span></h2></div></div>
+   <div class="section-heading"><div><p class="eyebrow">THE PORTFOLIO</p><h2>${e(site.selectedWork)}<span class="count">${String(projects.length).padStart(2,'0')}</span></h2></div></div>
    <div class="filter-panel"><div class="filter-heading"><span>Filter by tag</span><p id="filter-status" role="status" aria-live="polite" aria-atomic="true">Showing ${projects.length} projects</p></div><div class="filter-chips" role="group" aria-label="Filter projects by tag"><button type="button" class="filter-chip" disabled data-filter="" aria-pressed="true">All projects <span>${projects.length}</span></button>${allProjectTags(projects).map(tag=>`<button type="button" class="filter-chip" disabled data-filter="${e(tag)}" aria-pressed="false">${e(tag)} <span>${projects.filter(p=>projectTags(p).includes(tag)).length}</span></button>`).join('')}</div></div>
    <noscript><p>Enable JavaScript to use project filters. All projects are shown below.</p></noscript><div class="project-carousel" role="region" aria-roledescription="carousel" aria-label="Projects">
     <div class="carousel-toolbar"><span class="carousel-label">EXPLORE THE WORK</span><div class="carousel-navigation"><p class="carousel-position" data-carousel-position role="status" aria-live="polite">${projects.length} projects</p><div class="carousel-buttons"><button type="button" class="carousel-button" data-carousel-prev aria-label="Previous projects" aria-controls="project-track" disabled><svg viewBox="0 0 24 24" fill="none" aria-hidden="true" focusable="false"><path d="M19 12H5m0 0 6 6m-6-6 6-6"/></svg></button><button type="button" class="carousel-button" data-carousel-next aria-label="Next projects" aria-controls="project-track" disabled><svg viewBox="0 0 24 24" fill="none" aria-hidden="true" focusable="false"><path d="M5 12h14m0 0-6-6m6 6-6 6"/></svg></button></div></div></div>

diff --git a/src/templates/shared.js b/src/templates/shared.js
@@ -9,4 +9,4 @@ export function header(active='') {
 }
 export function footer(){return `<footer><div class="wrap footer-inner"><a href="/" class="footer-name">KEITH JANISH<span>.</span></a><span>Gameplay, with intention.</span><a href="#top">Back to top ↑</a><small>© ${new Date().getFullYear()} Keith Janish</small></div></footer>`;}
 export function contact(){return `<section id="contact" class="contact section"><div class="wrap contact-grid"><div><p class="eyebrow">LET’S CONNECT</p><h2>${site.contactTitle.split('\n').map(e).join('<br>')}</h2><p>${e(site.contactDescription)}</p></div><div class="contact-actions"><a class="email-link" href="mailto:${profile.email}">${e(profile.email)} ${arrow}</a><div class="contact-secondary">${external(profile.linkedin,'LinkedIn')}<button id="copy-email" data-email="${profile.email}">Copy email <span aria-hidden="true">⧉</span></button><a href="${profile.resume}" download>Download résumé ↓</a></div><p class="copy-status" aria-live="polite"></p><span class="availability">${e(profile.availability)}</span></div></div></section>`;}
-export function page({title=site.title,description=site.description,body}){return `<!doctype html><html lang="en"><head><meta charset="UTF-8"><meta name="viewport" content="width=device-width, initial-scale=1"><meta name="theme-color" content="#141416"><title>${e(title)}</title><meta name="description" content="${e(description)}"><meta property="og:title" content="${e(title)}"><meta property="og:description" content="${e(description)}"><meta property="og:type" content="website"><link rel="icon" href="/favicon-keith-v109.ico?v=sage" sizes="any"><link rel="icon" href="/favicon-keith-v109.svg?v=sage" type="image/svg+xml"><link rel="apple-touch-icon" href="/apple-touch-icon-keith-v109.png?v=sage"><link rel="stylesheet" href="/assets/style.css"><script type="module" src="/assets/project-filters.js"></script><script type="module" src="/assets/project-carousel.js"></script><script type="module" src="/assets/main.js"></script></head><body id="top">${body}</body></html>`;}
+export function page({title=site.title,description=site.description,body}){return `<!doctype html><html lang="en"><head><meta charset="UTF-8"><meta name="viewport" content="width=device-width, initial-scale=1"><meta name="theme-color" content="#141416"><title>${e(title)}</title><meta name="description" content="${e(description)}"><meta property="og:title" content="${e(title)}"><meta property="og:description" content="${e(description)}"><meta property="og:type" content="website"><link rel="icon" href="/favicon-keith-v109.ico?v=mauve" sizes="any"><link rel="icon" href="/favicon-keith-v109.svg?v=mauve" type="image/svg+xml"><link rel="apple-touch-icon" href="/apple-touch-icon-keith-v109.png?v=mauve"><link rel="stylesheet" href="/assets/style.css"><script type="module" src="/assets/project-filters.js"></script><script type="module" src="/assets/project-carousel.js"></script><script type="module" src="/assets/main.js"></script></head><body id="top">${body}</body></html>`;}

diff --git a/README.md b/README.md
@@ -158,7 +158,7 @@ video: {type: 'file', src: '/media/my-trailer.mp4', mime: 'video/mp4', title: 'P
 
 ## Appearance and artwork
 
-Version 1.0.9 updates the supplied screenshot's neutral charcoal background, muted sage accents, Barlow Condensed headline, and rectangular portrait. The source hero reads “I build the systems behind the play.” The corresponding dark styling carries through navigation, filters, project pages, and contact.
+Version 1.0.9 updates the supplied screenshot's neutral charcoal background, muted mauve accents, Barlow Condensed headline, and rectangular portrait. The source hero reads “I build the systems behind the play.” The corresponding dark styling carries through navigation, filters, project pages, and contact.
 
 Both project images remain the exact supplied Clockwork Trials title card and Operation Station trailer artwork. Artwork fills consistent 16:9 frames using proportional cover scaling; detail captions appear below the image. Video player sizing remains independent.
 
@@ -168,7 +168,7 @@ Run `npm run check` after building to check local assets, links, video configura
 
 The project row shows two cards at a time above 760px, and one on smaller screens. Use the arrow buttons, horizontal swipe/trackpad, or focus the row and use Left/Right, Home, and End. Arrows are disabled when there are no additional cards in that direction. With the current two projects, both fit on desktop. Filtering resets the scroll position and updates the range and arrow states.
 
-The project introduction sentence has been removed. Versioned dark/white/sage SVG and ICO favicon URLs replace the old icon, with an Apple touch icon and a default favicon.ico fallback.
+The project introduction sentence has been removed. Versioned dark/white/mauve SVG and ICO favicon URLs replace the old icon, with an Apple touch icon and a default favicon.ico fallback.
 
 
 ## Add a project
@@ -196,7 +196,7 @@ The build automatically includes every generated project page. The checks follow
 
 ## Project showcase update
 
-Two cards fit the desktop viewport; one fits mobile screens at 760px and below. The section follows the rest of the site's charcoal panels, sage accents, square edges, thin borders, Barlow Condensed headings, and DM Sans text. Consistent 16:9 artwork, restrained project numbering, a square image arrow, and subtle hover motion keep the project cards distinct within that shared style. All-card links, independent clickable filter tags, video links, URL filters, keyboard browsing, swipe scrolling, and reduced-motion support remain available. The range label and arrow controls indicate your position; decorative accent strips and scrollbar lines are removed.
+Two cards fit the desktop viewport; one fits mobile screens at 760px and below. The section follows the rest of the site's charcoal panels, mauve accents, square edges, thin borders, Barlow Condensed headings, and DM Sans text. Consistent 16:9 artwork, restrained project numbering, a square image arrow, and subtle hover motion keep the project cards distinct within that shared style. All-card links, independent clickable filter tags, video links, URL filters, keyboard browsing, swipe scrolling, and reduced-motion support remain available. The range label and arrow controls indicate your position; the section heading accent line, decorative card accent strips and scrollbar lines are removed. Card borders remain neutral on hover.
 
 Design references:
 - [Fairground Studio project carousel](https://www.awwwards.com/inspiration/project-carousel-fairground-studio)
